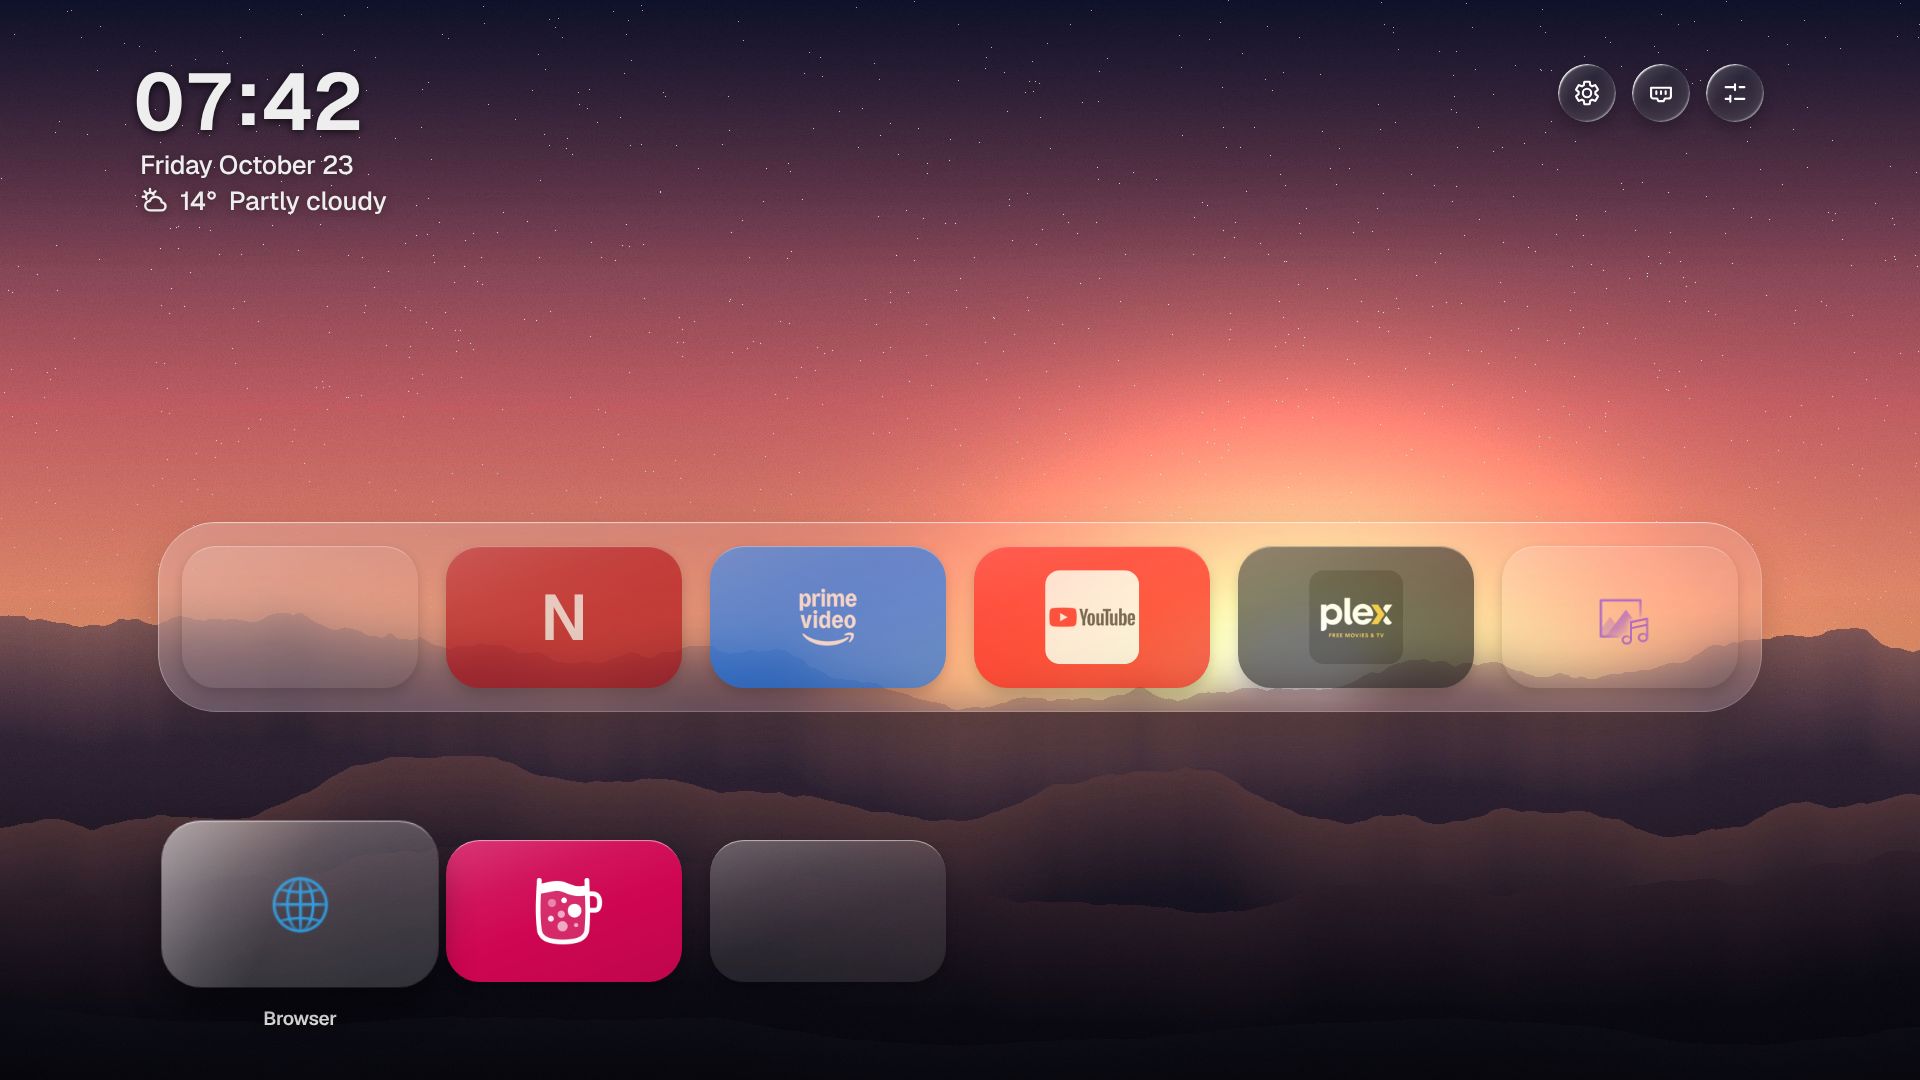
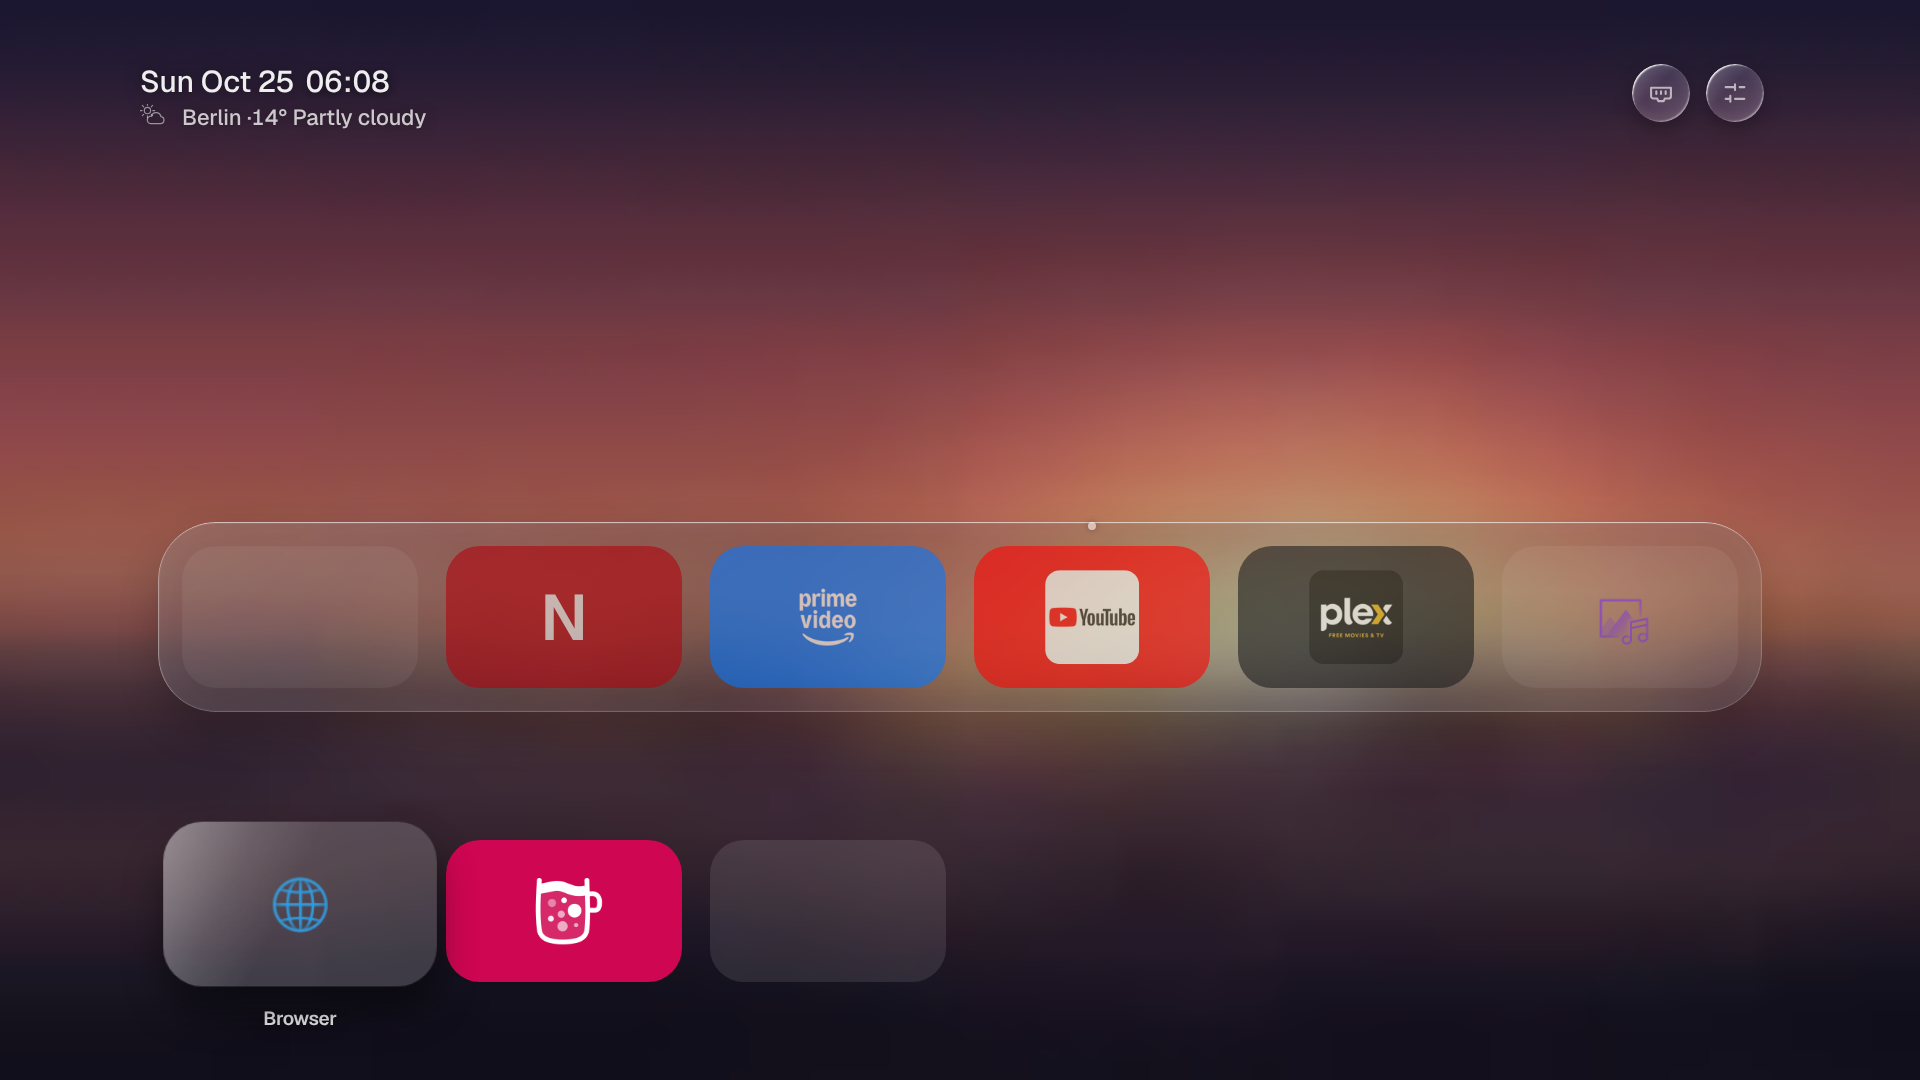
Screenshots retaken on 1.1.4
Claude-Session: https://claude.ai/code/session_01QQi96FMUFFePMvzjodQzZG

diff --git a/screenshots/README.md b/screenshots/README.md
@@ -1,13 +1,13 @@
 # Screenshots
 
-Made from the dev preview at 1920 x 1080 with the new home screen look and the new Control Center switched on (Settings > Options). The wallpapers are generated landscapes made for these pictures (no third-party artwork); the weather is a mock (Berlin, 14°, partly cloudy).
+Made from the dev preview at 1920 x 1080 on Lumen 1.1.4 with the fork changes. The wallpapers are generated landscapes made for these pictures (no third-party artwork); the weather is a mock (Berlin, 14°, partly cloudy).
 
 | File | Shows |
 |---|---|
-| `1-home.png` | main menu: dock, big clock, date and weather, top buttons |
+| `1-home.png` | main menu: dock, clock, date and weather, top buttons |
 | `2-home-second-row.png` | the second row of apps |
-| `3-control-center.png` | the new Control Center |
+| `3-control-center.png` | the Control Center |
 | `4-settings-apps.png` | Settings > Apps |
 | `5-settings-sources.png` | Settings > Sources |
 | `6-settings-wallpaper.png` | Settings > Wallpaper |
-| `7-settings-options.png` | Settings > Options |
+| `7-settings-options.png` | Settings > Appearance |
